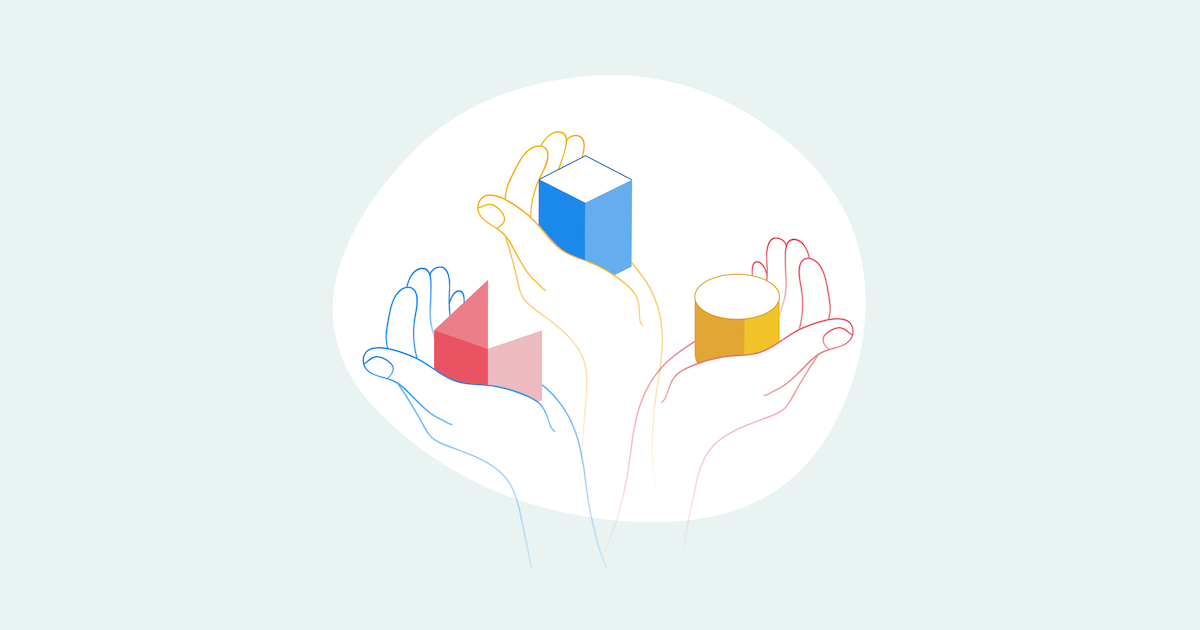
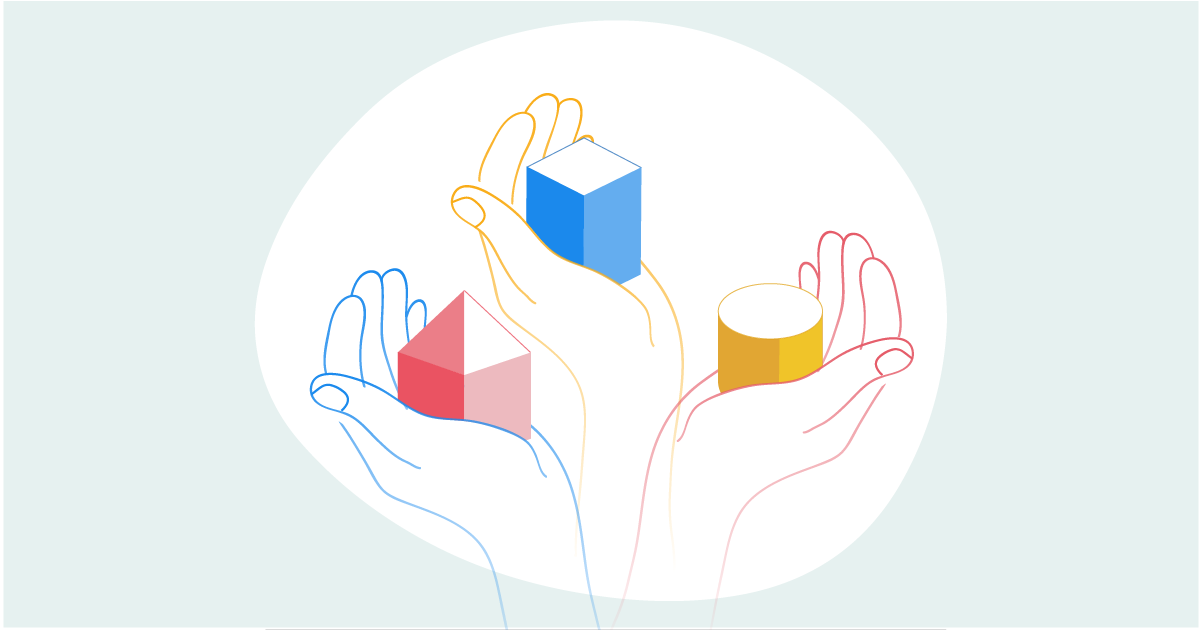
fix: update illustration

diff --git a/src/assets/styles/pages/_home.scss b/src/assets/styles/pages/_home.scss
@@ -12,122 +12,110 @@
             height: auto;
             width: 100%;
 
-            .cls-1 {
-                stroke: var(--fl-fgColor, #ea5362);
+            .st0 {
+                fill: var(--fl-bgColor, white);
             }
 
-            .cls-24 {
+            .st1 {
+                fill: var(--fl-fgColor, url(#SVGID_1_));
+            }
+
+            .st2 {
+                fill: var(--fl-fgColor, url(#SVGID_2_));
+            }
+
+            .st3 {
+                fill: var(--fl-fgColor, url(#SVGID_3_));
+            }
+
+            .st4 {
+                fill: var(--fl-fgColor, url(#SVGID_4_));
+            }
+
+            .st5 {
+                fill: var(--fl-fgColor, url(#SVGID_5_));
+            }
+
+            .st6 {
+                fill: var(--fl-fgColor, url(#SVGID_6_));
+            }
+
+            .st7 {
+                fill: none;
                 stroke: var(--fl-fgColor, #1362b2);
+                stroke-miterlimit: 10;
+                stroke-opacity: 0.7;
             }
 
-            .cls-1,
-            .cls-13,
-            .cls-24 {
-                fill: var(--fl-bgColor, #fff);
+            .st8 {
+                fill: var(--fl-fgColor, #64adef);
             }
 
-            .cls-13 {
+            .st9 {
+                fill: var(--fl-fgColor, #1b89ec);
+            }
+
+            .st10 {
+                fill: var(--fl-fgColor, #e1a633);
+            }
+
+            .st11 {
+                fill: var(--fl-fgColor, #f0c429);
+            }
+
+            .st12 {
+                fill: var(--fl-bgColor, white);
                 stroke: var(--fl-fgColor, #df9d0b);
+                stroke-miterlimit: 10;
+                stroke-opacity: 0.7;
             }
 
-            .cls-2 {
-                fill: var(--fl-fgColor, #ecbe1f);
+            .st13 {
+                fill: var(--fl-fgColor, #eb7e88);
             }
 
-            .cls-3 {
-                fill: var(--fl-fgColor, url(#yellow_gradient));
+            .st14 {
+                fill: var(--fl-fgColor, #ea5362);
             }
 
-            .cls-4 {
-                fill: var(--fl-fgColor, url(#red_gradient));
+            .st15 {
+                fill: var(--fl-fgColor, #edbabf);
             }
 
-            .cls-5 {
-                fill: var(--fl-fgColor, url(#red_gradient-2));
+            .st16 {
+                stroke: var(--fl-fgColor, #ea5362);
+                stroke-linecap: round;
+                stroke-miterlimit: 10;
+                stroke-opacity: 0.8;
             }
 
-            .cls-6 {
-                fill: var(--fl-fgColor, url(#linear-gradient));
-            }
-
-            .cls-7 {
-                fill: var(--fl-fgColor, url(#linear-gradient-2));
-            }
-
-            .cls-17,
-            .cls-18,
-            .cls-8 {
+            .st16,
+            .st17 {
                 fill: none;
             }
 
-            .cls-8 {
-                stroke: var(--fl-fgColor, #1362b2);
+            .st18 {
+                fill: var(--fl-fgColor, url(#SVGID_7_));
             }
 
-            .cls-13,
-            .cls-17,
-            .cls-8 {
-                stroke-miterlimit: 10;
+            .st19 {
+                fill: var(--fl-fgColor, #1b8aed);
             }
 
-            .cls-9 {
-                fill: var(--fl-fgColor, #64adef);
-                stroke: var(--fl-bgColor, none);
+            .st20 {
+                fill: var(--fl-fgColor, url(#SVGID_8_));
             }
 
-            .cls-10 {
-                fill: var(--fl-fgColor, #1b89ec);
-                stroke: var(--fl-bgColor, none);
+            .st21 {
+                fill: var(--fl-fgColor, #f9ac17);
             }
 
-            .cls-11 {
-                fill: var(--fl-fgColor, #e1a633);
-                stroke: var(--fl-bgColor, none);
+            .st22 {
+                fill: var(--fl-fgColor, url(#SVGID_9_));
             }
 
-            .cls-12 {
-                fill: var(--fl-fgColor, #f0c429);
-                stroke: var(--fl-bgColor, none);
-            }
-
-            .cls-14 {
-                fill: var(--fl-fgColor, #eb7e88);
-                stroke: var(--fl-bgColor, none);
-            }
-
-            .cls-15 {
-                fill: var(--fl-fgColor, #ea5362);
-                stroke: var(--fl-bgColor, none);
-            }
-
-            .cls-16 {
-                fill: var(--fl-fgColor, #edbabf);
-                stroke: var(--fl-bgColor, none);
-            }
-
-            .cls-17 {
-                stroke: var(--fl-fgColor, #edbabf);
-                stroke: var(--fl-bgColor, none);
-            }
-
-            .cls-19 {
-                fill: var(--fl-fgColor, url(#linear-gradient-3));
-            }
-
-            .cls-20 {
-                fill: var(--fl-fgColor, url(#linear-gradient-4));
-            }
-
-            .cls-21 {
-                fill: var(--fl-fgColor, url(#linear-gradient-5));
-            }
-
-            .cls-22 {
-                fill: var(--fl-fgColor, url(#linear-gradient-6));
-            }
-
-            .cls-23 {
-                fill: var(--fl-fgColor, url(#linear-gradient-7));
+            .st23 {
+                fill: var(--fl-fgColor, #e55c69);
             }
         }
     }
@@ -148,19 +136,19 @@
         }
 
         .block-icon .face-yellow-300 .face {
-            fill: var(--fl-bgColor, var(--yellow-300));
+            fill: var(--fl-fgColor, var(--yellow-300));
         }
 
         .block-icon .face-red-100 .face {
-            fill: var(--fl-bgColor, var(--red-100));
+            fill: var(--fl-fgColor, var(--red-100));
         }
 
         .block-icon .face-blue-200 .face {
-            fill: var(--fl-bgColor, var(--blue-200));
+            fill: var(--fl-fgColor, var(--blue-200));
         }
 
         .block-icon .face-green-200 .face {
-            fill: var(--fl-bgColor, var(--green-200));
+            fill: var(--fl-fgColor, var(--green-200));
         }
     }
 }
